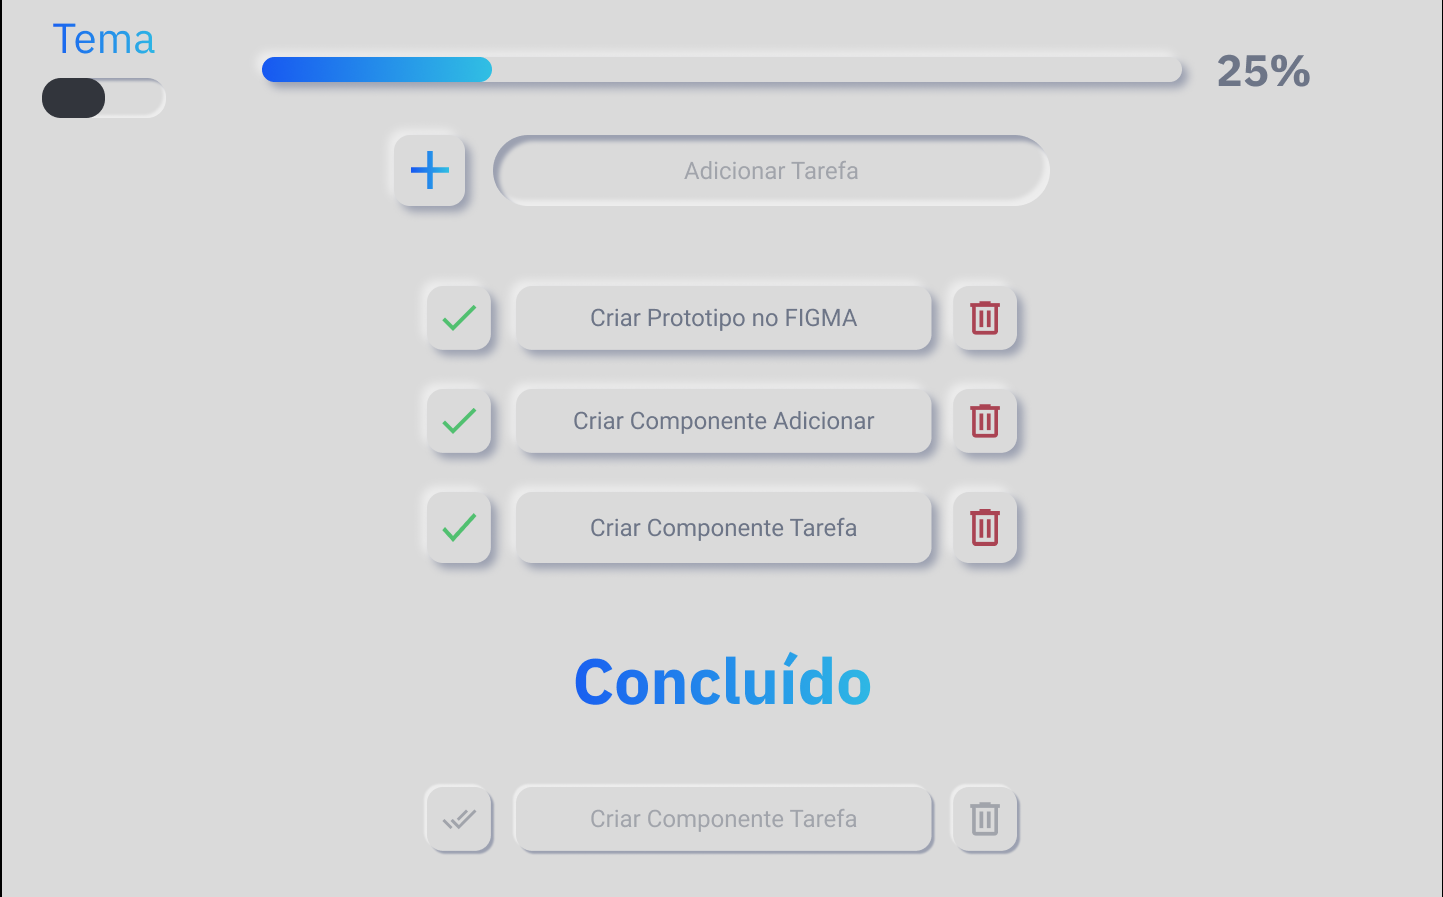
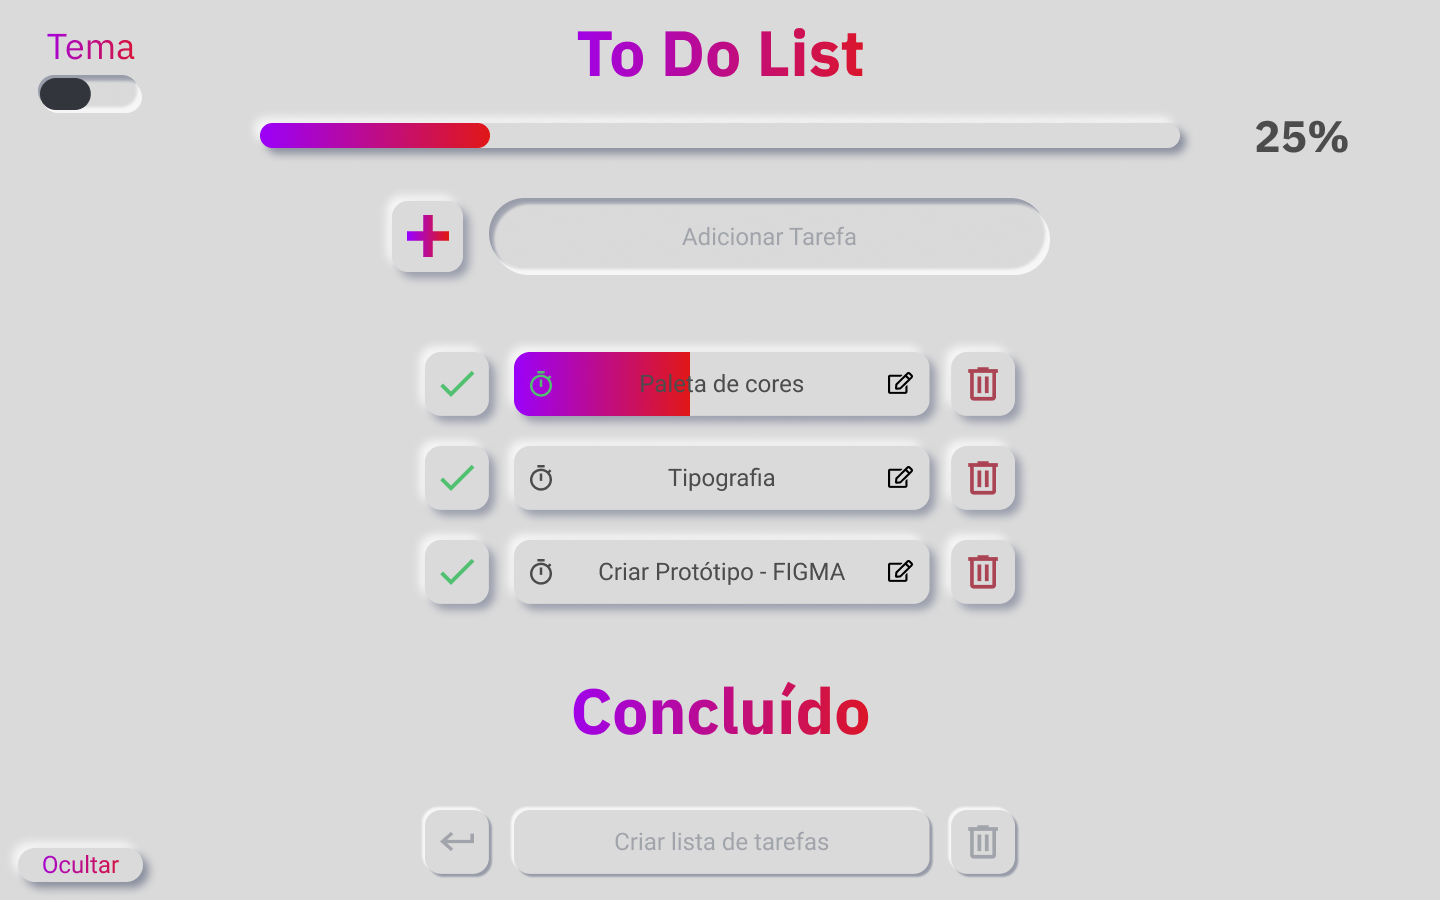
Hover on Done button

diff --git a/src/components/Done/style.js b/src/components/Done/style.js
@@ -13,7 +13,7 @@ export const DoneS = styled.div`
     width: 500.52px;
     height: 53.86px;
     background: ${({currentTheme}) => `${currentTheme.background}`};
-    box-shadow: 4px 4px 7px ${({currentTheme}) => `${currentTheme.shadowDark}`}, -4px -4px 7px ${({currentTheme}) => `${currentTheme.shadowLight}`};
+    box-shadow: 3px 3px 2px ${({currentTheme}) => `${currentTheme.shadowDark}`}, -3px -3px 2px ${({currentTheme}) => `${currentTheme.shadowLight}`};
     border-radius: 10px;
     font-size: 24px;
     font-family: sans-serif;
@@ -28,12 +28,12 @@ export const CheckS = styled.button`
     margin: 0 20px 0 auto;
     background: ${({currentTheme}) => `${currentTheme.background}`};
     border: none;
-    box-shadow: 4px 4px 7px ${({currentTheme}) => `${currentTheme.shadowDark}`}, -4px -4px 7px ${({currentTheme}) => `${currentTheme.shadowLight}`};
+    box-shadow: 3px 3px 2px ${({currentTheme}) => `${currentTheme.shadowDark}`}, -3px -3px 2px ${({currentTheme}) => `${currentTheme.shadowLight}`};
     border-radius: 10px;
     text-align: center;
 
-    &:hover {
-        box-shadow: 3px 3px 2px ${({currentTheme}) => `${currentTheme.shadowDark}`}, -3px -3px 2px ${({currentTheme}) => `${currentTheme.shadowLight}`};
+    &:hover #return {
+        color: ${({currentTheme}) => `${currentTheme.check}`};
         transition: all linear 0.3s;
     }
 
@@ -56,8 +56,8 @@ export const CheckS = styled.button`
 export const TrashS = styled(CheckS)`
     margin: 0 auto 0 20px;
 
-    &:hover {
-        box-shadow: 3px 3px 2px ${({currentTheme}) => `${currentTheme.shadowDark}`}, -3px -3px 2px ${({currentTheme}) => `${currentTheme.shadowLight}`};
+    &:hover #trash {
+        color: ${({currentTheme}) => `${currentTheme.trash}`};
         transition: all linear 0.3s;
     }
 
@@ -66,7 +66,7 @@ export const TrashS = styled(CheckS)`
     }
 
     &:active {
-        box-shadow: -2px -3px 0px ${({currentTheme}) => `${currentTheme.shadowDark}`}, 2px 3px 0px ${({currentTheme}) => `${currentTheme.shadowLight}`}, inset -3px -3px 3px ${({currentTheme}) => `${currentTheme.shadowDark}`}, inset 3px 3px 3px ${({currentTheme}) => `${currentTheme.shadowLight}`};    
+        box-shadow: -2px -3px 0px ${({currentTheme}) => `${currentTheme.shadowDark}`}, 2px 3px 0px ${({currentTheme}) => `${currentTheme.shadowLight}`}, inset -3px -3px 3px ${({currentTheme}) => `${currentTheme.shadowLight}`}, inset 3px 3px 3px ${({currentTheme}) => `${currentTheme.shadowDark}`};    
         transition: all linear 0.02s;
     }
 

diff --git a/src/components/Section/style.js b/src/components/Section/style.js
@@ -87,12 +87,12 @@ export const Container = styled.main`
         cursor: pointer;
 
         &:hover {
-            box-shadow: 3px 3px 2px${({currentTheme}) => `${currentTheme.shadowDark}`}, -3px -3px 2px ${({currentTheme}) => `${currentTheme.shadowLight}`};
+            box-shadow: 3px 3px 2px ${({currentTheme}) => `${currentTheme.shadowDark}`}, -3px -3px 2px ${({currentTheme}) => `${currentTheme.shadowLight}`};
             transition: all linear 0.3s;
         }
 
         &:active {
-            box-shadow: -2px -3px 0px${({currentTheme}) => `${currentTheme.shadowDark}`}, 2px 3px 0px ${({currentTheme}) => `${currentTheme.shadowLight}`}, inset -3px -3px 3px ${({currentTheme}) => `${currentTheme.shadowLight}`}, inset 3px 3px 3px${({currentTheme}) => `${currentTheme.shadowDark}`};    
+            box-shadow: -2px -3px 0px ${({currentTheme}) => `${currentTheme.shadowDark}`}, 2px 3px 0px ${({currentTheme}) => `${currentTheme.shadowLight}`}, inset -3px -3px 3px ${({currentTheme}) => `${currentTheme.shadowLight}`}, inset 3px 3px 3px ${({currentTheme}) => `${currentTheme.shadowDark}`};    
         }
     }
 

diff --git a/src/components/Content/index.js b/src/components/Content/index.js
@@ -60,7 +60,7 @@ const Content = ({ text, todo, list, setList, setEdit, currentTheme }) => {
         return (
             <Container currentTheme={currentTheme}>
                 <CheckS currentTheme={currentTheme} onClick={completeHandler}><i className="material-icons" id="check">done</i></CheckS>
-                <ContentS currentTheme={currentTheme} background={parseFloat(((seconds * 100) / time).toFixed(0))}>
+                <ContentS time={time} currentTheme={currentTheme} background={parseFloat(((seconds * 100) / time).toFixed(0))}>
                 <select name="timers" onChange={timerHandler} className={!toggle ? "timers-disabled" : ""} id="timers">
                     <option className="timer-option" value="">0</option>
                     <option className="timer-option" value="1">1 min</option>

diff --git a/src/App.js b/src/App.js
@@ -24,7 +24,7 @@ function App() {
   return (
     <Container currentTheme={themes ? Themes.dark : Themes.light}>
       <Section currentTheme={themes ? Themes.dark : Themes.light}>
-        <h1 className="title-h1" >To do List</h1>
+        <h1 className="title-h1" >To Do List</h1>
         <Bar arrayThemes={Themes} themes={themes} setThemes={setThemes} currentTheme={themes ? Themes.dark : Themes.light} list={list}/>
         <Input currentTheme={themes ? Themes.dark : Themes.light} setList={setList} list={list} setInputText={setInputText} inputText={inputText} edit={edit} setEdit={setEdit}/>
         <TodoList currentTheme={themes ? Themes.dark : Themes.light} list={list} setList={setList} todos={list.length !== 0 ? list.filter((element) => element.done === false) : null} setEdit={setEdit}/>

diff --git a/src/styles/themes/index.js b/src/styles/themes/index.js
@@ -1,7 +1,7 @@
 const themes = {
     light: {        
-        shadowLight: '#FFFFFF',
-        shadowDark: '#9CA1B1',
+        shadowLight: 'rgba(255, 255, 255, 0.75)',
+        shadowDark: 'rgba(111, 117, 137, 0.75)',
         textEnabled: '#000000',
         textDisabled: '#A1A4AB',
         textTrasition: '#FFFFFF',
@@ -15,8 +15,8 @@ const themes = {
         theme: '#32353C'
     },
     dark: {
-        shadowLight: '#474E54',
-        shadowDark: '#25262C',
+        shadowLight: 'rgba(92, 99, 105, 0.75)',
+        shadowDark: 'rgba(28, 29, 33, 0.75)',
         textEnabled: '#e2e2e2',
         textDisabled: '#A1A4AB',
         textTrasition: '#000000',

diff --git a/src/components/Theme/style.js b/src/components/Theme/style.js
@@ -19,7 +19,7 @@ export const ColorS = styled.div`
         width: 100%;
         height: 32px;
         border-radius: 30px;
-        box-shadow: inset 3px 3px 3px${({currentTheme}) => `${currentTheme.shadowDark}`}, inset -3px -3px 3px ${({currentTheme}) => `${currentTheme.shadowLight}`};
+        box-shadow: inset 3px 3px 3px ${({currentTheme}) => `${currentTheme.shadowDark}`}, inset -3px -3px 3px ${({currentTheme}) => `${currentTheme.shadowLight}`};
         border-radius: 30px;
         position: relative;
         cursor: pointer;

diff --git a/public/index.html b/public/index.html
@@ -2,7 +2,7 @@
 <html lang="en">
   <head>
     <meta charset="utf-8" />
-    <!-- <link rel="icon" href="%PUBLIC_URL%/favicon.ico" /> -->
+    <link rel="icon" href="./favicon.png"/>
     <meta name="viewport" content="width=device-width, initial-scale=1" />
     <meta name="theme-color" content="#000000" />
     <link rel="preconnect" href="https://fonts.gstatic.com">

diff --git a/src/components/Content/style.js b/src/components/Content/style.js
@@ -74,7 +74,7 @@ export const ContentS = styled.div`
         left: 18px;
         transform: translateY(-50%);
         cursor: pointer;
-        color: ${({currentTheme}) => `${currentTheme.iconColor}`}; 
+        color: ${({currentTheme, time}) => `${time > 0 ? currentTheme.check : currentTheme.iconColor}`}; 
     }
 
     #timers {

diff --git a/README.md b/README.md
@@ -2,8 +2,11 @@
 
 - Projeto React.
 
-## Prototipo [Figma]
-#### Link - [Protótipo de Alta Fidelidade](https://www.figma.com/proto/PbFMR0iGCMxDNGH5b0ongP/To-Do-List?node-id=23%3A199&viewport=-69%2C349%2C0.6126126646995544&scaling=min-zoom)
+## Protótipo [Figma]
+#### Link - [Protótipo de Alta Fidelidade](https://www.figma.com/proto/PbFMR0iGCMxDNGH5b0ongP/To-Do-List?node-id=91%3A213&scaling=min-zoom)
+
+## Deploy [Heroku]
+#### Link - [To do List](https://todolist-react-aplication.herokuapp.com)
 
 
 ![Imagém da página desktop](https://github.com/carlos-souza-dev/todolist/blob/main/src/assets/Dark-Desktop.png)
